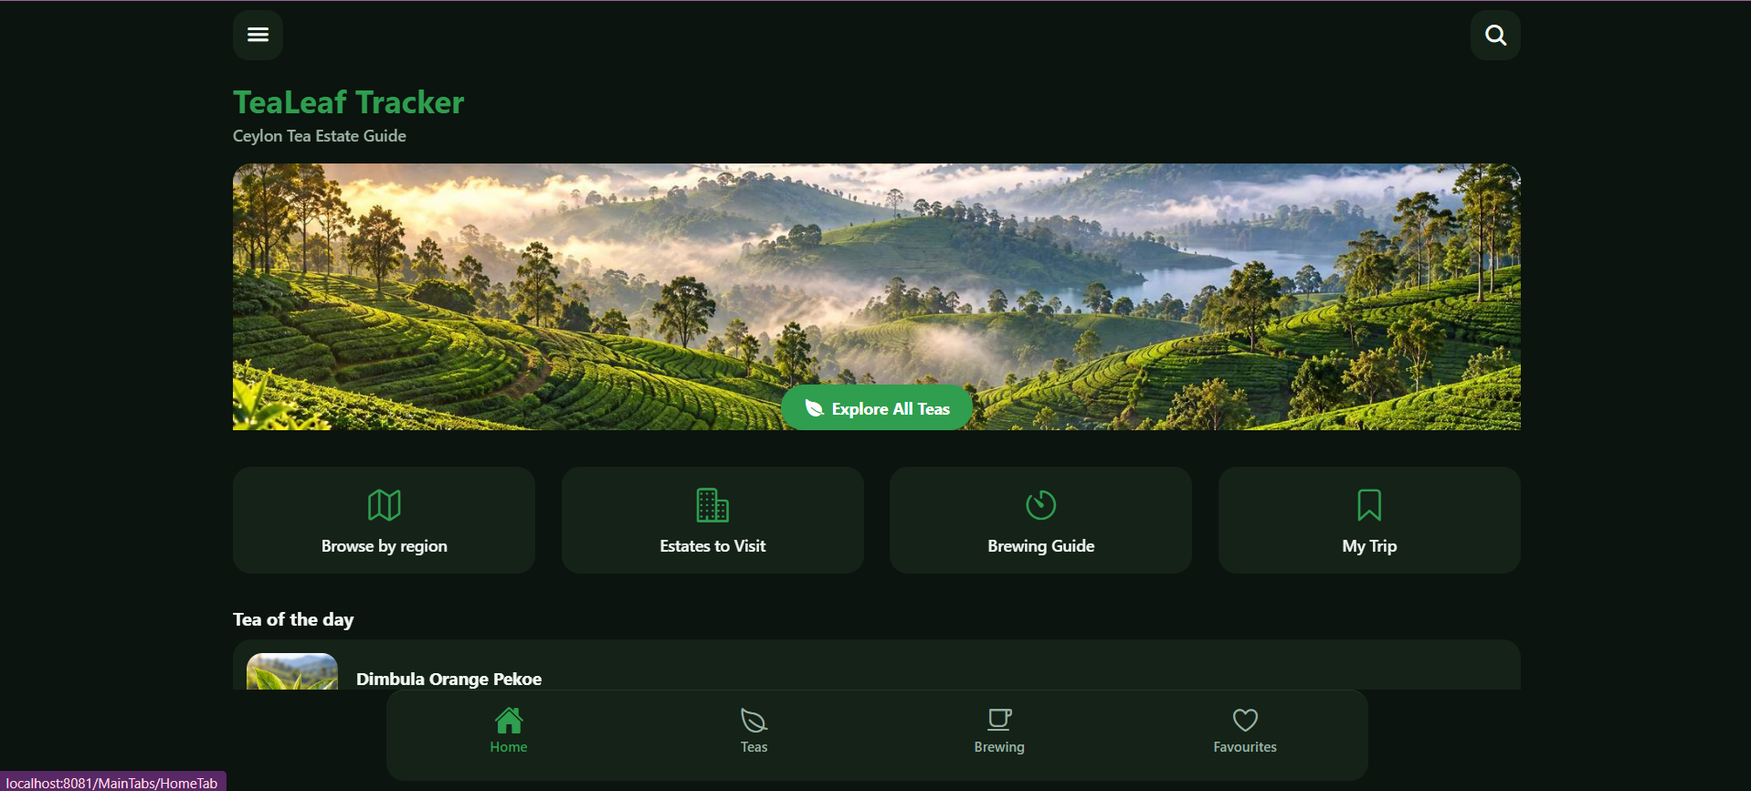
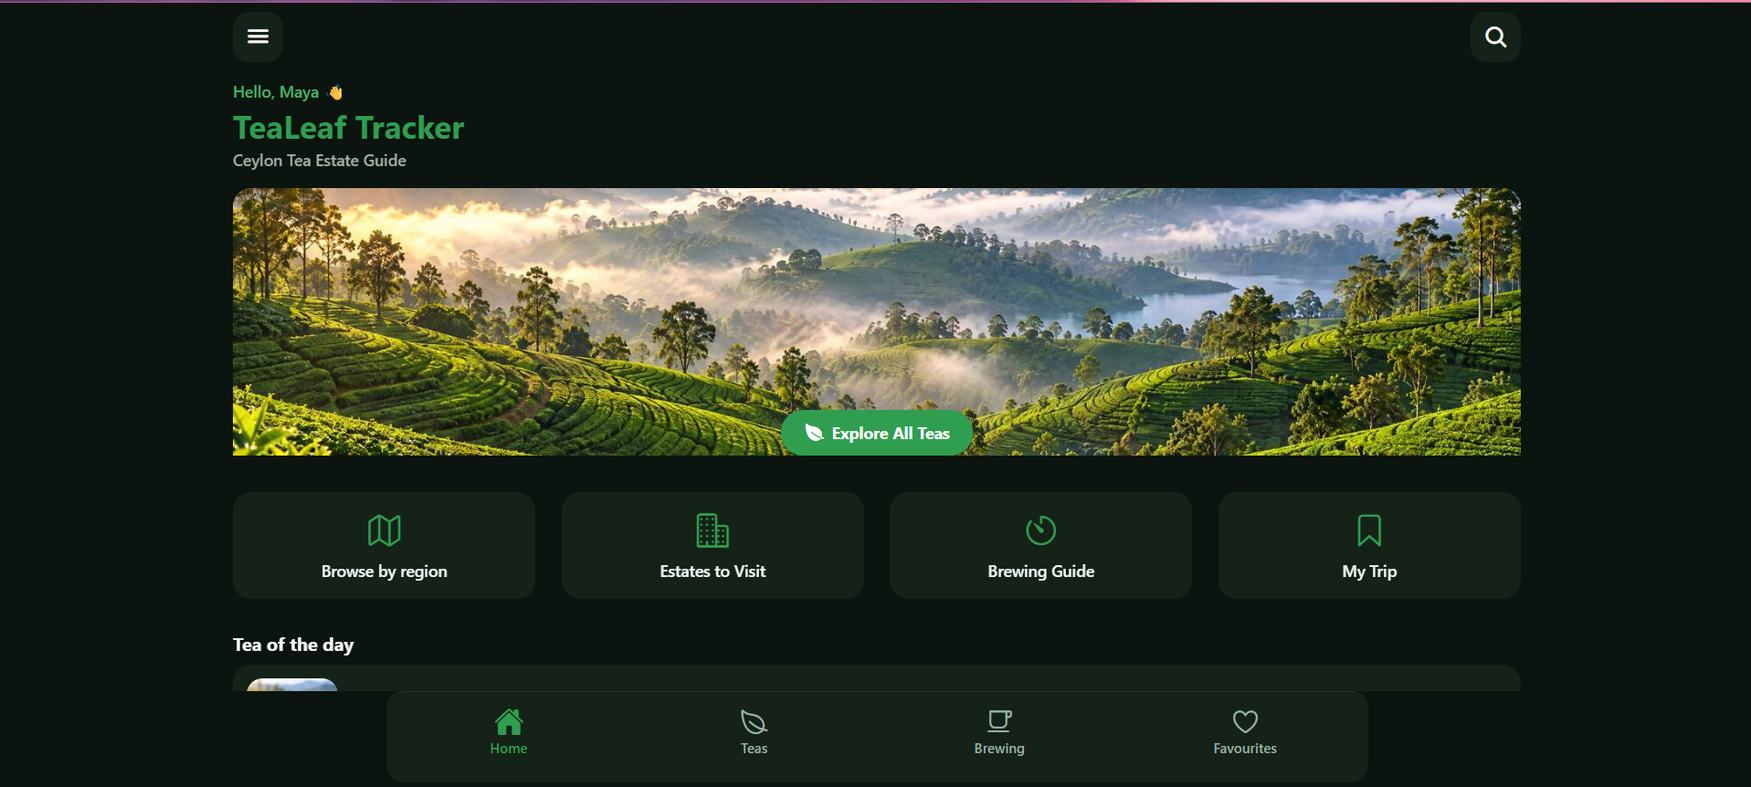
Add README with app screenshots

diff --git a/README.md b/README.md
@@ -1,0 +1,350 @@
+# TeaLeaf Tracker – Ceylon Tea Estate Guide
+
+**Course:** IT3133 – Individual Project  
+**Author:** Chathuni Abeysinghe  
+
+TeaLeaf Tracker is an offline React Native (Expo) mobile application developed to explore Sri Lanka's Ceylon tea heritage. The application allows users to discover regional tea varieties, understand elevation classifications, browse historical tea estates to visit, plan custom travel itineraries, and brew tea using an integrated step-by-step timer. Designed with an offline-first architecture, the application operates entirely without internet access or remote APIs.
+
+---
+
+## Features
+
+- **Welcome and Onboarding:** First-launch splash view presenting app identity and Ceylon tea heritage, with onboarding completion persisted in device storage.
+- **Offline Authentication & Local User Accounts:** Offline user registration and sign-in backed by SQLite with salted SHA-256 password hashing (via `expo-crypto`); persistent active session saved on the device (AsyncStorage `@tealeaf_session`); and secure log out with confirmation from the Settings screen.
+- **Browse Teas:** Curated catalogue of 21 Ceylon tea varieties covering High-grown, Mid-grown, and Low-grown elevations, and Black, Green, White, and Silver Tips types.
+- **Search and Filtering:** Real-time search by tea name, region, type, flavour notes, and elevation; dedicated filter screen with multi-select region, elevation, and tea type chips, supporting OR evaluation within a category and AND logic across categories, flexible sorting, active-filter badge, live result count, and one-tap clear all.
+- **Sorting:** Database query sorting supporting alphabetical order (ascending and descending) and elevation hierarchy (High-grown to Low-grown).
+- **Tea Details:** Detailed profiles including elevation classification, region, harvest season, flavour profile chips, descriptive background, and direct brewing guide integration.
+- **Brewing Guide and Interactive Timer:** Steeping instructions covering ideal water temperature, steeping duration, leaf dosage, and tips for Black, Green, White, and Silver Tips teas. Features a countdown timer with start, pause, resume, reset, drift-free interval tracking, screen wake lock, haptic feedback, and local completion alerts.
+- **Region Explorer:** Visual directory of Sri Lanka's six major tea-growing regions (Nuwara Eliya, Uva, Dimbula, Kandy, Ruhuna, and Sabaragamuwa) with elevation levels and direct navigation to filtered teas and estates.
+- **Estates to Visit:** Directory of 10 visitable Ceylon tea estates with travel metrics (drive duration in minutes, distance in kilometres), factory tour availability, visiting seasons, and highlights.
+- **Estate Details:** Comprehensive estate profile with factory tour status, road travel estimates, best seasons, tea types produced, and an itinerary toggle.
+- **Favourites:** Save favourite teas with local persistence in SQLite, optimistic state updates, and quick removal.
+- **My Trip (Itinerary Planner):** Custom travel itinerary saving selected estates with automatic real-time aggregation of total estimated drive time and cumulative travel distance.
+- **Settings and Appearance:** Theme switcher supporting Light, Dark, and System preference modes; notification permission toggles; offline status confirmation; and informational links.
+- **Static Information:** In-app reader for Privacy Policy, About TeaLeaf Tracker, and Contact details.
+- **Responsive Layout:** Dynamic layout adapting to mobile, tablet, and desktop viewports (1, 2, or 3 columns) with clamped max-widths.
+- **100% Offline Architecture:** Local JSON datasets seeded into an embedded SQLite database on first launch; all asset images bundled locally; zero network or API dependencies.
+
+---
+
+## Screens
+
+| Screen Name | Route Name | File | Purpose |
+| :--- | :--- | :--- | :--- |
+| Welcome | `Welcome` | `src/screens/WelcomeScreen.tsx` | Introduces the app, records onboarding completion, and directs users to Login (or MainTabs if already logged in). |
+| Login | `Login` | `src/screens/LoginScreen.tsx` | Local device sign-in view with email, secure password entry, inline validation, and link to sign up. |
+| Sign Up | `SignUp` | `src/screens/SignUpScreen.tsx` | Account registration view with full name, email, salted password creation, and validation. |
+| Home | `HomeTab` | `src/screens/HomeScreen.tsx` | Main dashboard with hero banner, quick navigation tiles, tea of the day, and featured teas. |
+| All Teas | `Teas` / `AllTeas` | `src/screens/AllTeasScreen.tsx` | Searchable catalogue and grid of all Ceylon teas with region filtering and favourite toggles. |
+| Filter Teas | `FilterTeas` | `src/screens/FilterScreen.tsx` | Filter selection view with multi-choice chips for region, elevation, and tea type. |
+| Tea Details | `TeaDetails` | `src/screens/TeaDetailsScreen.tsx` | Detailed specifications, tasting notes, description, and brewing link for a selected tea. |
+| Brewing Guide | `BrewingTab` | `src/screens/BrewingGuideScreen.tsx` | Segmented tea brewing parameters and interactive countdown timer. |
+| Region Explorer | `RegionExplorer` | `src/screens/RegionExplorerScreen.tsx` | Visual guide to the six tea-growing regions with elevation data and links to related teas/estates. |
+| Estates to Visit | `EstatesToVisit` | `src/screens/EstatesToVisitScreen.tsx` | Searchable directory of visitable tea estates with travel metrics and factory tour flags. |
+| Estate Details | `EstateDetails` | `src/screens/EstateDetailsScreen.tsx` | Detailed estate profile with visiting details and an itinerary addition toggle. |
+| Favourites | `FavouritesTab` | `src/screens/FavouritesScreen.tsx` | Displays user-favourited teas saved locally with removal options. |
+| My Trip | `MyTrip` | `src/screens/MyTripScreen.tsx` | Itinerary planner displaying saved estates with aggregated drive duration and distance. |
+| Settings | `Settings` | `src/screens/SettingsScreen.tsx` | Controls for theme mode (Light/Dark/System), notification preferences, and informational pages. |
+| Information | `Info` | `src/screens/InfoScreen.tsx` | Static content viewer for Privacy Policy, About project details, and Contact information. |
+
+---
+
+## Tech Stack
+
+| Technology | Version | Purpose |
+| :--- | :--- | :--- |
+| React Native | 0.88.1 | Cross-platform mobile application framework |
+| Expo SDK | ~58.0.23 | Managed mobile application toolchain and runtime |
+| TypeScript | ~6.0.3 | Strongly-typed application programming language |
+| React | 19.3.0 | UI component library |
+| React Navigation | ^7.5.1 | Routing and screen navigation architecture |
+| `@react-navigation/native-stack` | ^7.21.0 | Native stack navigation for modal and drill-down views |
+| `@react-navigation/bottom-tabs` | ^7.21.0 | Bottom tab navigation for primary app sections |
+| `expo-sqlite` | ~58.0.15 | Embedded relational SQLite database for entities and user data |
+| `expo-crypto` | ~58.0.8 | Cryptographic hashing (SHA-256) and random salt generation for local offline authentication |
+| `@react-native-async-storage/async-storage` | 2.2.0 | Key-value storage for session tokens, theme, preferences, and onboarding flags |
+| Context API | React Built-in | Global state management for authentication, theme, settings, favourites, filters, and trip planning |
+| `expo-keep-awake` | ~58.0.3 | Screen awake lock while the brewing timer is counting down |
+| `expo-haptics` | ~58.0.7 | Tactile feedback upon brewing timer completion |
+| `expo-notifications` | ~58.1.8 | Local scheduled notifications when the brewing timer finishes |
+| `@expo/vector-icons` (Ionicons) | ^15.0.2 | Consistent iconography across navigation and components |
+| `react-native-safe-area-context` | ~5.11.1 | Safe area inset management across edge-to-edge device displays |
+| `react-native-web` | ^0.21.4 | Web runtime support for browser-based demonstration |
+
+---
+
+## Data Architecture
+
+The application is engineered as a 100% offline system with zero external API calls:
+
+```
+Bundled JSON Data (teas, estates, regions, brewing)
+                      |
+                      v
+      initAndSeedDatabase() in App.tsx
+                      |
+                      v
+   expo-sqlite Database ('ceylonteaguide.db')
+   -------------------------------------------------
+   - regions          : 6 Ceylon tea regions
+   - teas             : 21 authentic tea varieties
+   - estates          : 10 historical tea estates
+   - brewing_guides   : 4 standard tea brewing profiles
+   - favourites       : User-saved teas (Foreign Key -> teas)
+   - trip_items       : User-saved estates (Foreign Key -> estates)
+   - users            : Local user credentials (id, full_name, email, password_hash, salt, created_at)
+   - app_metadata     : Version tracking ('data_version': '4')
+```
+
+1. **Local JSON Datasets:**
+   - `src/data/teas.json`: 21 Ceylon tea entries with elevation, type, flavour notes, harvest seasons, and image keys.
+   - `src/data/estates.json`: 10 historic estates with driving times, distances, tour status, highlights, and season recommendations.
+   - `src/data/regions.json`: 6 Ceylon tea regions with elevation classes and geological descriptions.
+   - `src/data/brewing.json`: 4 brewing specifications with temperature, steep minutes, leaf weights, and tips.
+2. **Database Initialization and Seeding:**
+   - On initial launch, `initAndSeedDatabase()` (`src/database/seed.ts`) executes table creation scripts (`src/database/schema.ts`).
+   - Checks the `app_metadata` table for existing seeding status. If unseeded or versioned below current (`data_version: '4'`), it batch-inserts the local JSON records using parameterized SQL statements. Foreign key constraints are enforced (`PRAGMA foreign_keys = ON;`).
+3. **User Persistence & Authentication:**
+   - User credentials, salts, and hashed passwords are stored in SQLite (`users` table with columns: `id`, `full_name`, `email` [unique, lowercase], `password_hash`, `salt`, `created_at`). Plain-text passwords are never stored.
+   - Active user session is saved securely on the device in `@react-native-async-storage/async-storage` under key `@tealeaf_session`.
+   - Favourites and Trip Itineraries write directly to SQLite (`favourites` and `trip_items` tables) using cascade rules.
+   - User preferences (Theme mode, Notification toggles, Tips toggle, Onboarding state) are stored via `@react-native-async-storage/async-storage`.
+
+---
+
+## Project Structure
+
+```
+TeaLeaf-Tracker/
+├── assets/                          # Static application assets
+│   ├── favicon.png                  # Web favicon
+│   └── images/                      # Bundled local image assets
+│       ├── adaptive-icon.png        # Android adaptive icon foreground
+│       ├── app-icon.png             # General application icon
+│       ├── brew_cup.jpg             # Brewing guide visual asset
+│       ├── home_hero.jpg            # Home dashboard banner image
+│       ├── logo.png                 # TeaLeaf Tracker application logo
+│       ├── trip_leaf_decor.png      # Decorative UI graphic
+│       ├── welcome_bg.jpg           # Welcome screen background image
+│       ├── estates/                 # 10 estate photographic assets
+│       ├── regions/                 # 6 tea region photographic assets
+│       └── teas/                    # 8 categorized tea variety images
+├── src/                             # Application source code
+│   ├── components/                  # Reusable UI presentation components
+│   │   ├── ScreenHeader.tsx         # Standardized screen header with back and action buttons
+│   │   └── TeaImage.tsx             # Fallback-safe image wrapper for offline assets
+│   ├── context/                     # Global state providers via React Context
+│   │   ├── AuthContext.tsx          # Offline authentication state and session persistence
+│   │   ├── FavouritesContext.tsx    # Bookmarked teas state and SQLite synchronisation
+│   │   ├── FilterContext.tsx        # Multi-attribute tea filter and sort state management
+│   │   ├── SettingsContext.tsx      # Notification and guidance settings persistence
+│   │   ├── ThemeContext.tsx         # Light, Dark, and System theme management
+│   │   └── TripContext.tsx          # Travel itinerary state and live metric calculations
+│   ├── data/                        # Static JSON datasets and asset mappings
+│   │   ├── brewing.json             # Brewing parameters by tea type
+│   │   ├── estates.json             # Visitable Ceylon tea estates dataset
+│   │   ├── images.ts                # Static require() registry for bundled offline images
+│   │   ├── regions.json             # Ceylon tea regions dataset
+│   │   └── teas.json                # Curated Ceylon tea catalogue
+│   ├── database/                    # SQLite database implementation
+│   │   ├── db.ts                    # SQLite database connection factory (expo-sqlite)
+│   │   ├── queries.ts               # Parameterized SQL query and mutation functions
+│   │   ├── schema.ts                # SQLite table definitions and DDL scripts
+│   │   ├── seed.ts                  # Database seeding logic with version control
+│   │   └── users.ts                 # Local user authentication, salted hashing, and queries
+│   ├── hooks/                       # Custom React hooks
+│   │   ├── useBrewTimer.ts          # Drift-free countdown timer with haptics and keep-awake
+│   │   ├── useDebounce.ts           # Debounce utility for input handling
+│   │   ├── useEstates.ts            # SQLite data fetching hook for estates
+│   │   └── useTeas.ts               # SQLite data fetching hook for teas
+│   ├── navigation/                  # Navigation configuration
+│   │   ├── MainTabs.tsx             # Bottom tab bar navigator (Home, Teas, Brewing, Favourites)
+│   │   ├── RootNavigator.tsx        # Root native stack navigator managing modals and screens
+│   │   └── types.ts                 # TypeScript type definitions for navigation parameters
+│   ├── screens/                     # Application screen components
+│   │   ├── AllTeasScreen.tsx        # Tea catalogue screen with search and filtering
+│   │   ├── BrewingGuideScreen.tsx   # Brewing guide and interactive timer screen
+│   │   ├── EstateDetailsScreen.tsx  # Detailed estate view with itinerary action
+│   │   ├── EstatesToVisitScreen.tsx # Estate directory screen with metrics
+│   │   ├── FavouritesScreen.tsx     # Saved favourite teas list screen
+│   │   ├── FilterScreen.tsx         # Multi-criteria filter selection screen
+│   │   ├── HomeScreen.tsx           # Home dashboard screen
+│   │   ├── InfoScreen.tsx           # Static informational viewer screen
+│   │   ├── LoginScreen.tsx          # Local user sign-in screen with visibility toggle
+│   │   ├── MyTripScreen.tsx         # Trip itinerary summary and list screen
+│   │   ├── RegionExplorerScreen.tsx # Tea region directory screen
+│   │   ├── SettingsScreen.tsx       # Application settings and theme screen
+│   │   ├── SignUpScreen.tsx         # User registration screen with salted credential creation
+│   │   ├── TeaDetailsScreen.tsx     # Tea profile and tasting notes screen
+│   │   └── WelcomeScreen.tsx        # Welcome onboarding screen
+│   ├── theme/                       # Global styling tokens
+│   │   ├── colors.ts                # Light and dark colour palettes
+│   │   ├── spacing.ts               # Spacing scales and border radii
+│   │   └── typography.ts            # Font sizes, font weights, and line heights
+│   ├── types/                       # Shared TypeScript domain interfaces
+│   │   └── index.ts                 # Domain models (Tea, Region, Estate, BrewingGuide, etc.)
+│   └── utils/                       # Utility helpers
+│       ├── imageMap.ts              # Key-to-asset mapping and default fallback resolver
+│       └── responsive.ts            # Viewport breakpoint and responsive layout hook
+├── App.tsx                          # Root application bootstrap, DB setup, and provider hierarchy
+├── app.json                         # Expo configuration manifest
+├── index.ts                         # Entry point registering root component
+├── metro.config.js                  # Metro bundler configuration with wasm extension support
+├── package.json                     # Project dependencies and npm scripts
+└── tsconfig.json                    # TypeScript compiler configuration
+```
+
+---
+
+## How Navigation Works
+
+Navigation is configured using React Navigation v7 with a two-tier structure: a Root Native Stack Navigator containing a Bottom Tab Navigator alongside secondary screens.
+
+```
+RootNavigator (Native Stack - initialRoute: Welcome)
+├── Welcome (WelcomeScreen)
+├── Login (LoginScreen)
+├── SignUp (SignUpScreen)
+├── MainTabs (BottomTabNavigator)
+│   ├── HomeTab       -> HomeScreen
+│   ├── Teas          -> AllTeasScreen
+│   ├── BrewingTab    -> BrewingGuideScreen
+│   └── FavouritesTab -> FavouritesScreen
+├── AllTeas (AllTeasScreen)
+├── FilterTeas (FilterScreen, modal slide-from-bottom presentation)
+├── TeaDetails (TeaDetailsScreen, parameter: teaId)
+├── RegionExplorer (RegionExplorerScreen)
+├── EstatesToVisit (EstatesToVisitScreen, optional parameter: regionFilter)
+├── EstateDetails (EstateDetailsScreen, parameter: estateId)
+├── MyTrip (MyTripScreen)
+├── Settings (SettingsScreen)
+└── Info (InfoScreen, parameters: title, contentKey)
+```
+
+- **Authentication Flow:** Launching the app presents `WelcomeScreen`. Pressing **Get Started** inspects device authentication state: if an active session is detected in local storage, it transitions directly to `MainTabs`; otherwise, it directs to `LoginScreen`. Users can toggle freely between `LoginScreen` and `SignUpScreen`. Upon successful login or registration, the stack navigates forward via `navigation.replace('MainTabs')`. From the `SettingsScreen`, users can initiate **Log Out**, which issues a confirmation dialog, purges the local session from AsyncStorage, and resets the root stack back to `LoginScreen`.
+- **Root Stack Navigator (`RootNavigator.tsx`):** Handles root-level transitions using native stack animations (`slide_from_right`). The filter view uses a card presentation with a `slide_from_bottom` animation.
+- **Main Tabs (`MainTabs.tsx`):** Provides persistent bottom navigation across primary features. Tab height, label positioning, and maximum bar width adjust automatically based on responsive breakpoints.
+
+---
+
+## Responsive Design
+
+The app implements dynamic layout adaptation through `useResponsive` (`src/utils/responsive.ts`), utilizing React Native's `useWindowDimensions` hook to re-render layouts on window resize or device rotation:
+
+| Viewport Width | Breakpoint Category | Columns (`numColumns`) | Max Content Width | Form Max Width | UI Scale |
+| :--- | :--- | :--- | :--- | :--- | :--- |
+| `< 600px` | `phone` | 1 column | 600px | 600px | 1.00 |
+| `600px - 900px` | `tablet` | 2 columns | 840px | 600px | 1.05 |
+| `> 900px` | `desktop` | 3 columns | 1160px | 600px | 1.15 |
+
+- **Column Grids:** FlatLists across `AllTeasScreen`, `RegionExplorerScreen`, `EstatesToVisitScreen`, `FavouritesScreen`, and `MyTripScreen` dynamically switch between 1, 2, or 3 columns based on `numColumns`.
+- **Max Width Clamping:** Inner content containers apply `contentMaxWidth` or `formMaxWidth` aligned centrally (`alignSelf: 'center'`) to maintain clean readability and prevent visual stretching on widescreen tablets and desktop browsers.
+- **Adaptive Tab Bar:** On tablet and desktop screens, the bottom tab bar is restricted to centered widths (700px on tablet, 860px on desktop) with elevated card styling.
+
+---
+
+## Getting Started
+
+### Prerequisites
+
+- Node.js (version 18.x or 20.x recommended)
+- npm (bundled with Node.js)
+- Expo Go application installed on an Android or iOS device (available via Google Play Store / Apple App Store), or an iOS Simulator / Android Emulator.
+
+### Installation
+
+1. Clone or extract the project repository to your local machine:
+   ```bash
+   cd TeaLeaf-Tracker
+   ```
+2. Install project dependencies:
+   ```bash
+   npm install
+   ```
+
+### Running the Application
+
+1. **Start the Expo Development Server:**
+   ```bash
+   npx expo start
+   ```
+2. **Open on Physical Mobile Device:**
+   - **Android:** Open the Expo Go app and scan the terminal QR code.
+   - **iOS:** Open the native Camera app, scan the terminal QR code, and open the prompt in Expo Go.
+   *(Note: Ensure your mobile device and computer are connected to the same Wi-Fi network).*
+3. **Open in Web Browser:**
+   ```bash
+   npx expo start --web
+   ```
+   Or press `w` in the active terminal running `npx expo start`.
+
+---
+
+## Screenshots
+
+Main screens of the application:
+
+| Welcome Screen | Home Dashboard | All Teas Screen |
+| :---: | :---: | :---: |
+| ![Welcome Screen](docs/screenshots/welcome.png) | ![Home Screen](docs/screenshots/home.png) | ![All Teas](docs/screenshots/all-teas.png) |
+
+| Tea Details | Brewing Guide & Timer | Region Explorer |
+| :---: | :---: | :---: |
+| ![Tea Details](docs/screenshots/tea-details.png) | ![Brewing Guide](docs/screenshots/brewing-guide.png) | ![Region Explorer](docs/screenshots/regions.png) |
+
+| Estates to Visit | Estate Details | My Trip Itinerary |
+| :---: | :---: | :---: |
+| ![Estates to Visit](docs/screenshots/estates.png) | ![Estate Details](docs/screenshots/estate-details.png) | ![My Trip](docs/screenshots/my-trip.png) |
+
+| Favourites | Filter Screen | Settings |
+| :---: | :---: | :---: |
+| ![Favourites](docs/screenshots/favourites.png) | ![Filter Screen](docs/screenshots/filter.png) | ![Settings](docs/screenshots/settings.png) |
+
+| Login Screen | Sign Up Screen |
+| :---: | :---: |
+| ![Login Screen](docs/screenshots/login.png) | ![Sign Up Screen](docs/screenshots/signup.png) |
+
+
+---
+
+## Git Workflow
+
+The project follows a standard structured Git branching and review model:
+
+- **Branching Strategy:**
+  - `main`: Production-stable branch representing release-ready code evaluated for project milestones.
+  - `feature/<feature-name>`: Dedicated feature development branches (e.g., `feature/data-and-database`).
+  - `fix/<fix-name>`: Bug correction and hotfix branches (e.g., `fix/image-mapping`).
+  - `docs/<doc-name>`: Documentation and project specification updates.
+- **Pull Requests:**
+  - Feature branches are pushed to GitHub and integrated into `main` strictly through Pull Requests (PRs).
+  - Changes are developed on separate branches and merged into `main` through pull requests.
+- **Commit Message Conventions:**
+  - Commit messages use the imperative present tense with an initial capital letter describing the exact change (e.g., `Add local datasets and SQLite database seeding`, `Configure app name, root providers and Metro`, `Set up Expo project, theme and responsive utilities`).
+
+---
+
+## Known Limitations and Future Improvements
+
+### Known Limitations
+
+1. **Dual Data Sourcing in Views:** While SQLite is initialized and seeded on app startup, several listing views (`HomeScreen`, `AllTeasScreen`, `EstatesToVisitScreen`) query bundled JSON datasets in memory for synchronous filtering and instant responsiveness, while SQLite query hooks (`useTeas`, `useEstates`) and database tables handle database queries, Favourites, and Trip persistence.
+2. **Static Distance and Travel Estimates:** Drive times and kilometre distances for tea estates are fixed reference values rather than live GPS estimations based on current device location.
+3. **Native Device Features on Web:** Features relying on device hardware (`expo-haptics`, `expo-keep-awake`, and local push notifications) gracefully degrade when running in a web browser.
+4. **Local-Only Device Authentication:** User authentication is entirely local to the device using SQLite and AsyncStorage. There is no remote online backend, cloud synchronisation across devices, or remote password recovery mechanism if credentials are lost.
+
+### Future Improvements
+
+1. **Unified SQLite DAO Layer:** Fully integrate all catalog queries through asynchronous SQLite query hooks (`useTeas`, `useEstates`) with SQLite Full-Text Search (FTS5) for rapid multi-token search.
+2. **Interactive Offline Mapping:** Incorporate offline vector mapping (`react-native-maps`) to visually display estate pins and calculated driving routes across Sri Lanka's tea regions.
+3. **Itinerary Export:** Add functionality to export or share the My Trip itinerary as a downloadable text or PDF summary.
+
+---
+
+## Author
+
+- **Name:** Chathuni Abeysinghe
+- **Degree:** BSc (Hons) Information Systems
+- **Institution:** University of Moratuwa
+- **Course:** IT3133 – Individual Project
